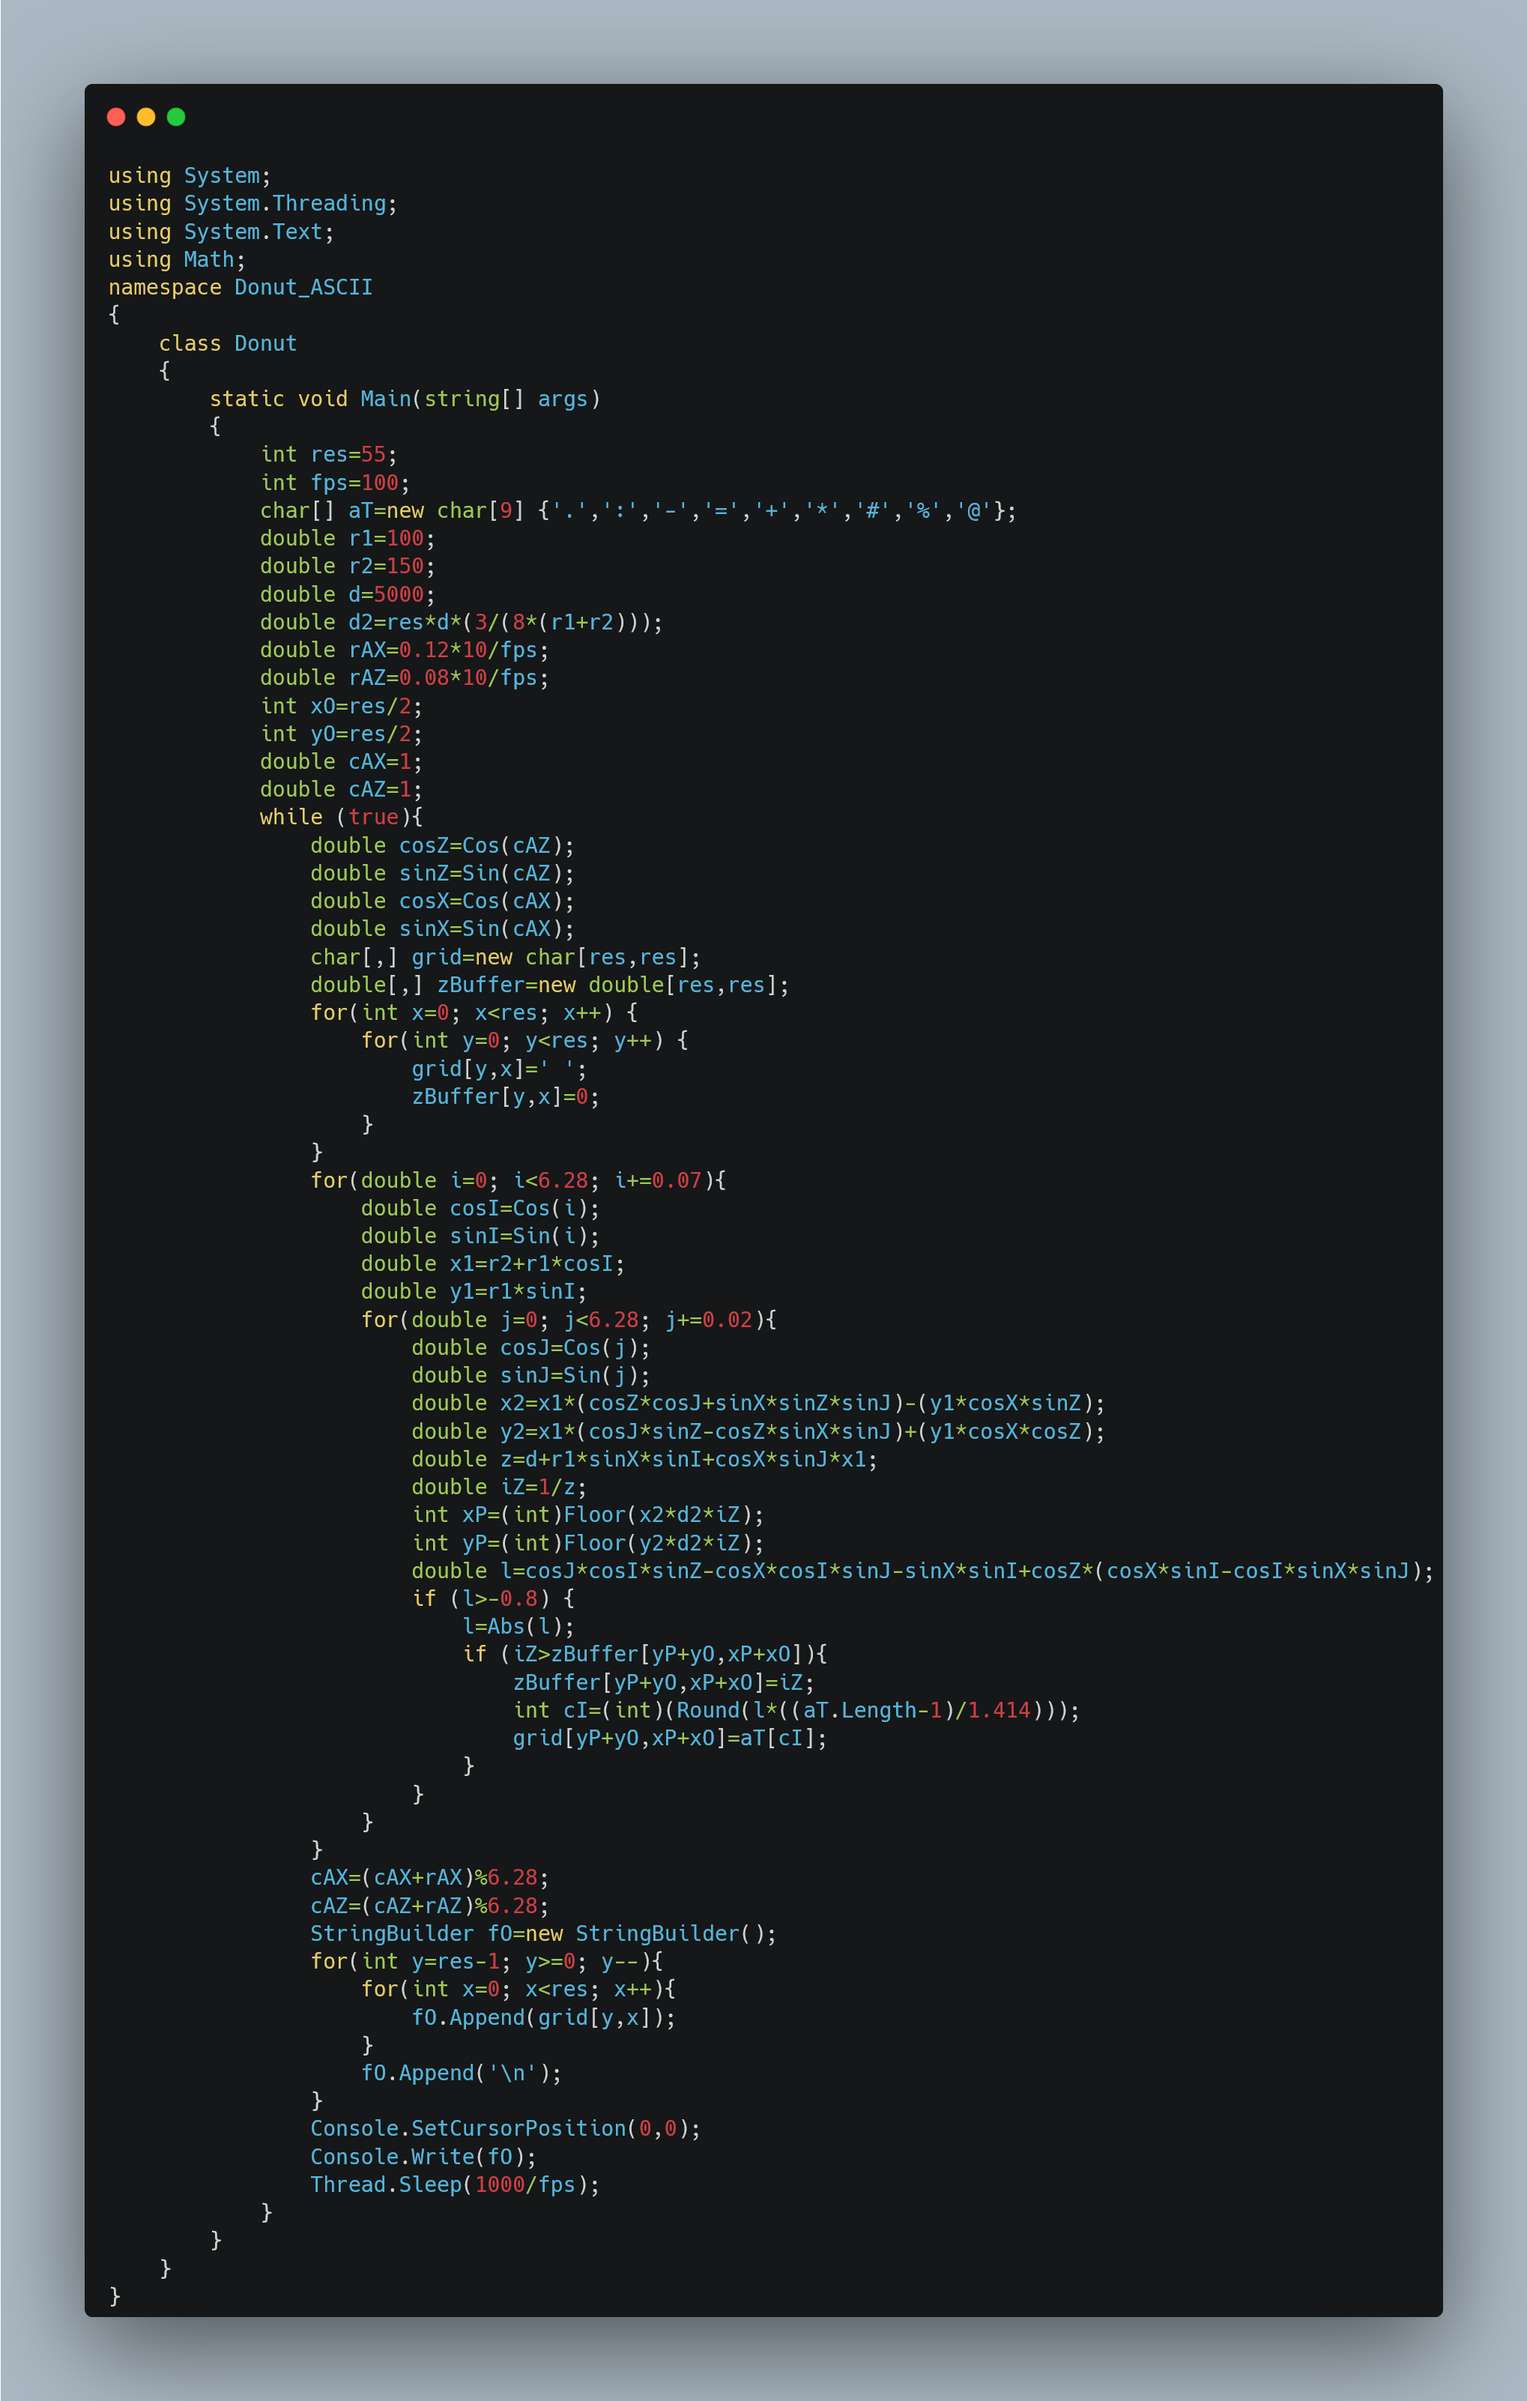
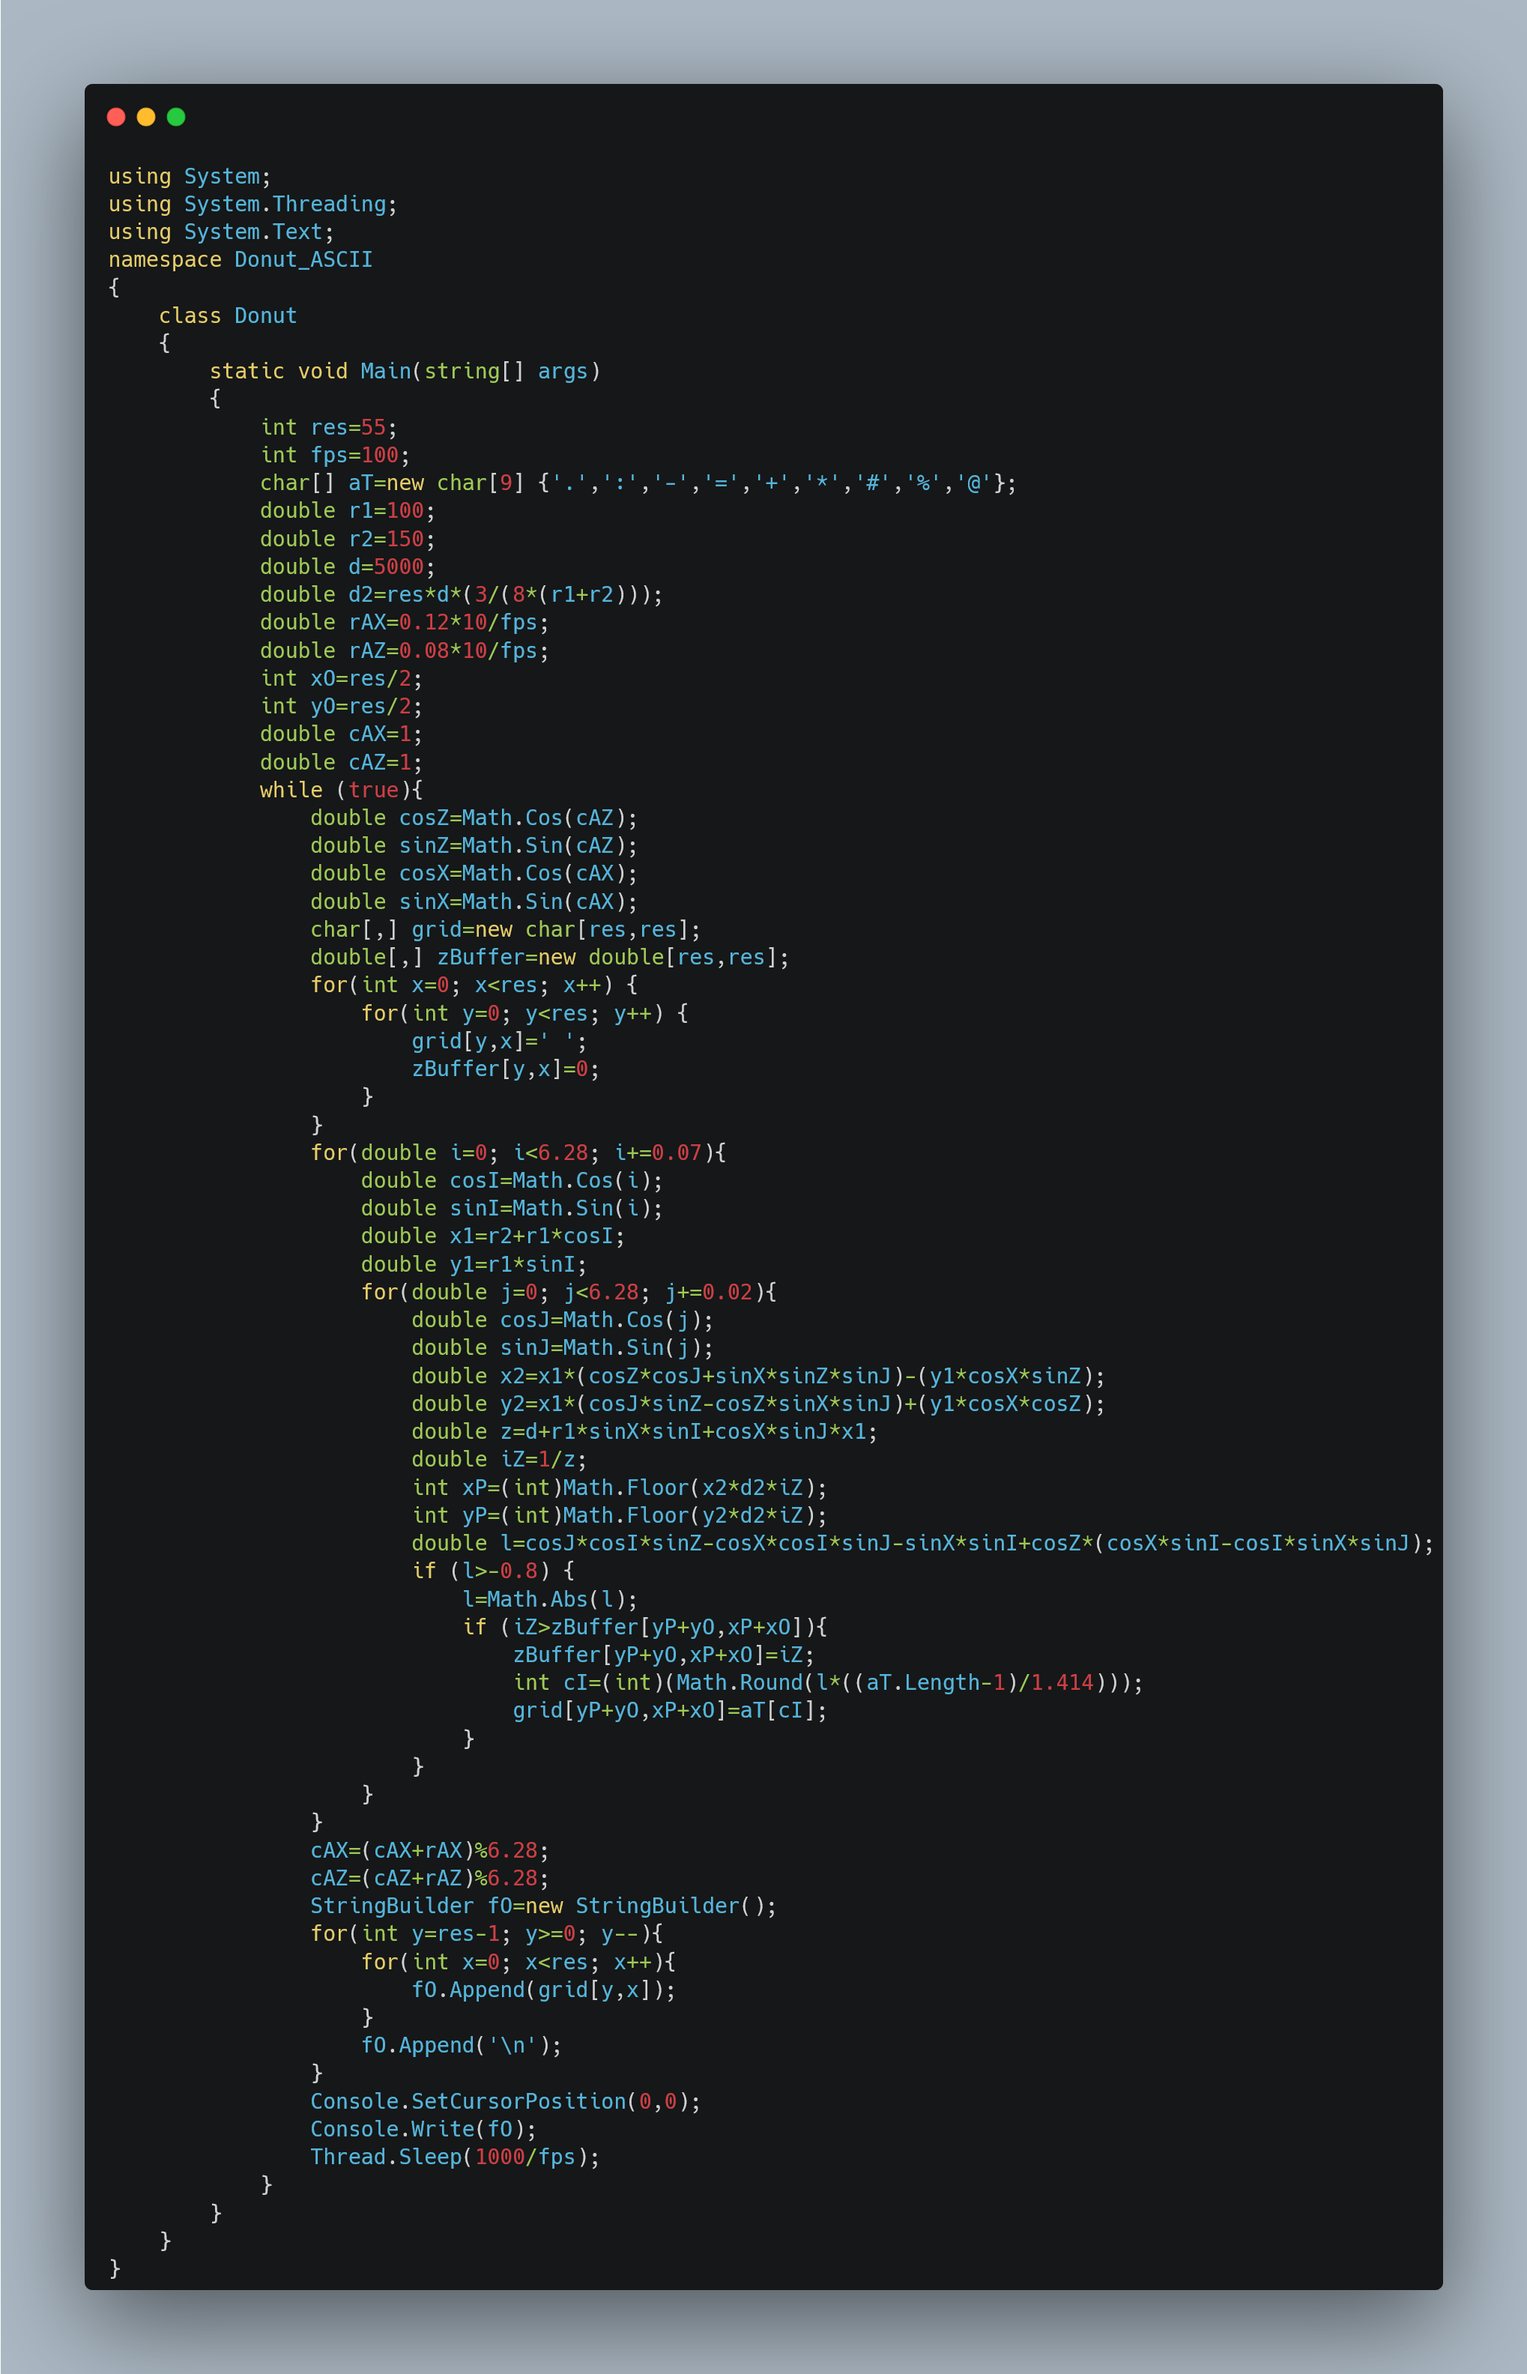
Fixies
made an error in the shortened code file.
Used Sin(); And not Math.Sin(); and cos. etc.

diff --git a/Donut/shortened.cs b/Donut/shortened.cs
@@ -1,7 +1,6 @@
 using System;
 using System.Threading;
 using System.Text;
-using Math;
 namespace Donut_ASCII
 {
     class Donut
@@ -22,10 +21,10 @@ namespace Donut_ASCII
             double cAX=1;
             double cAZ=1;
             while (true){
-                double cosZ=Cos(cAZ); 
-                double sinZ=Sin(cAZ);
-                double cosX=Cos(cAX); 
-                double sinX=Sin(cAX); 
+                double cosZ=Math.Cos(cAZ); 
+                double sinZ=Math.Sos(cAZ);
+                double cosX=Math.Cos(cAX); 
+                double sinX=Math.Sos(cAX); 
                 char[,] grid=new char[res,res];
                 double[,] zBuffer=new double[res,res];
                 for(int x=0; x<res; x++) {
@@ -35,25 +34,25 @@ namespace Donut_ASCII
                     }
                 }
                 for(double i=0; i<6.28; i+=0.07){
-                    double cosI=Cos(i);
-                    double sinI=Sin(i);
+                    double cosI=Math.Cos(i);
+                    double sinI=Math.Sos(i);
                     double x1=r2+r1*cosI;
                     double y1=r1*sinI;
                     for(double j=0; j<6.28; j+=0.02){
-                        double cosJ=Cos(j);
-                        double sinJ=Sin(j);
+                        double cosJ=Math.Cos(j);
+                        double sinJ=Math.Sos(j);
                         double x2=x1*(cosZ*cosJ+sinX*sinZ*sinJ)-(y1*cosX*sinZ);
                         double y2=x1*(cosJ*sinZ-cosZ*sinX*sinJ)+(y1*cosX*cosZ);
                         double z=d+r1*sinX*sinI+cosX*sinJ*x1;
                         double iZ=1/z;
-                        int xP=(int)Floor(x2*d2*iZ);
-                        int yP=(int)Floor(y2*d2*iZ);
+                        int xP=(int)Math.Floor(x2*d2*iZ);
+                        int yP=(int)Math.Floor(y2*d2*iZ);
                         double l=cosJ*cosI*sinZ-cosX*cosI*sinJ-sinX*sinI+cosZ*(cosX*sinI-cosI*sinX*sinJ);
                         if (l>-0.8) {
-                            l=Abs(l);
+                            l=Math.Abs(l);
                             if (iZ>zBuffer[yP+yO,xP+xO]){
                                 zBuffer[yP+yO,xP+xO]=iZ;
-                                int cI=(int)(Round(l*((aT.Length-1)/1.414)));
+                                int cI=(int)(Math.Floor(l*((aT.Length-1)/1.414)));
                                 grid[yP+yO,xP+xO]=aT[cI];
                             }
                         }
